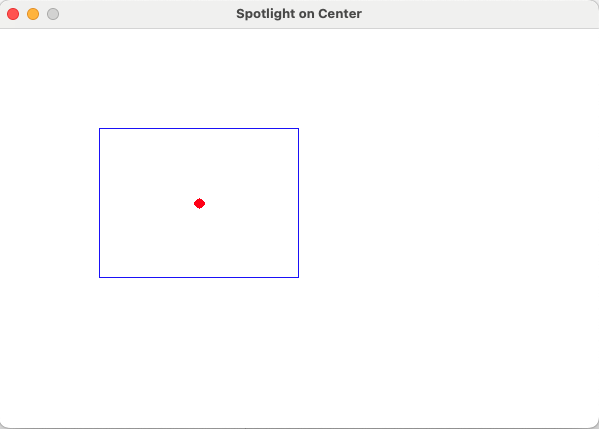
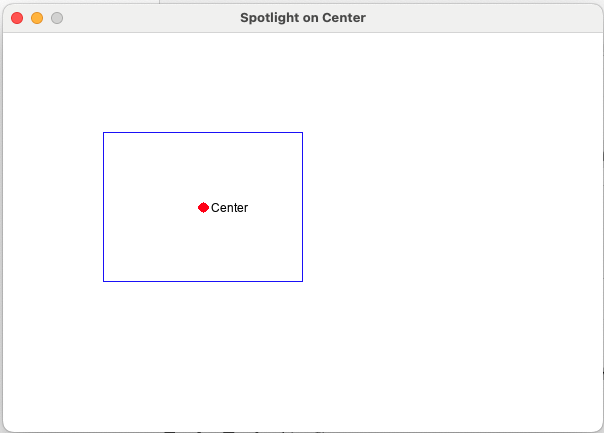
Update rectangle_center usage example: added comments and font fix

Changed region(s): [[0.0, 0.0, 1.0, 1.0], [0.1503, 0.303, 0.5109, 0.6667], [0.3306, 0.4545, 0.4207, 0.5152]]

diff --git a/public/usage-examples/geometry/rectangle_center-1-example.py b/public/usage-examples/geometry/rectangle_center-1-example.py
@@ -4,16 +4,23 @@ from splashkit import *
 example_message = "this is an example of snake_case"
 
 def main():
-    open_window("Spotlight on Center", 600, 400)
+    # Open a window to display the graphics
+    window = open_window("Spotlight on Center", 600, 400)
 
+    # Create a rectangle using top-left coordinates and dimensions
     example_rectangle = rectangle_from(100, 100, 200, 150)
+
+    # Compute the center point of the rectangle
     center_point = rectangle_center(example_rectangle)
+
+    # Load font from file (ensure "Arial.ttf" exists in the same folder)
+    font = load_font("default_font", "Arial.ttf")
 
     while not quit_requested():
         process_events()
         clear_screen(color_white())
 
-        # Draw rectangle with numeric arguments
+        # Draw the rectangle using individual properties
         draw_rectangle(
             color_blue(),
             example_rectangle.x,
@@ -22,14 +29,15 @@ def main():
             example_rectangle.height
         )
 
-        # Draw the center point
+        # Draw a red circle at the center of the rectangle
         fill_circle(color_red(), center_point.x, center_point.y, 5)
 
-        # Draw label near the center
-        draw_text("Center", color_black(), "Arial", 12, center_point.x + 8, center_point.y - 6)
+        # Label the center point using the loaded font
+        draw_text("Center", color_black(), font, 12, center_point.x + 8, center_point.y - 6)
 
         refresh_screen()
 
-    close_window("Spotlight on Center")
+    # Close the window when finished
+    close_window(window)
 
 main()

diff --git a/public/usage-examples/geometry/rectangle_center-1-example.cpp b/public/usage-examples/geometry/rectangle_center-1-example.cpp
@@ -5,9 +5,13 @@ string example_message = "this is an example of snake_case";
 
 int main()
 {
+    // Open a graphics window
     open_window("Spotlight on Center", 600, 400);
 
+    // Define a rectangle using top-left corner and size
     rectangle example_rectangle = rectangle_from(100, 100, 200, 150);
+
+    // Calculate the center point of the rectangle
     point_2d center_point = rectangle_center(example_rectangle);
 
     while (!quit_requested())
@@ -15,7 +19,7 @@ int main()
         process_events();
         clear_screen(COLOR_WHITE);
 
-        // Draw the rectangle
+        // Draw the rectangle in blue
         draw_rectangle(
             COLOR_BLUE,
             example_rectangle.x,
@@ -24,15 +28,16 @@ int main()
             example_rectangle.height
         );
 
-        // Draw the center point
+        // Draw a red circle at the center point
         fill_circle(COLOR_RED, center_point, 5);
 
-        // Draw label near the center point
+        // Label the center point
         draw_text("Center", COLOR_BLACK, "Arial", 12, center_point.x + 8, center_point.y - 6);
 
         refresh_screen();
     }
 
+    // Close the window
     close_window("Spotlight on Center");
 
     return 0;

diff --git a/public/usage-examples/geometry/rectangle_center-1-example-oop.cs b/public/usage-examples/geometry/rectangle_center-1-example-oop.cs
@@ -9,9 +9,13 @@ namespace RectangleCenterExample
             // Declare a variable with camelCase
             string exampleMessage = "this is an example of camelCase";
 
+            // Open a window for drawing
             SplashKit.OpenWindow("Spotlight on Center", 600, 400);
 
+            // Create a rectangle
             Rectangle exampleRectangle = SplashKit.RectangleFrom(100, 100, 200, 150);
+
+            // Get the center of the rectangle
             Point2D centerPoint = SplashKit.RectangleCenter(exampleRectangle);
 
             while (!SplashKit.QuitRequested())
@@ -28,10 +32,10 @@ namespace RectangleCenterExample
                     exampleRectangle.Height
                 );
 
-                // Draw the center point
+                // Draw a circle at the center
                 SplashKit.FillCircle(Color.Red, centerPoint, 5);
 
-                // Draw label near the center
+                // Label the center
                 SplashKit.DrawText("Center", Color.Black, "Arial", 12, centerPoint.X + 8, centerPoint.Y - 6);
 
                 SplashKit.RefreshScreen();

diff --git a/public/usage-examples/geometry/rectangle_center-1-example-top-level.cs b/public/usage-examples/geometry/rectangle_center-1-example-top-level.cs
@@ -3,9 +3,13 @@ using SplashKitSDK;
 // Declare a variable with camelCase
 string exampleMessage = "this is an example of camelCase";
 
+// Open a drawing window
 SplashKit.OpenWindow("Spotlight on Center", 600, 400);
 
+// Define a rectangle
 Rectangle exampleRectangle = SplashKit.RectangleFrom(100, 100, 200, 150);
+
+// Calculate the rectangle's center
 Point2D centerPoint = SplashKit.RectangleCenter(exampleRectangle);
 
 while (!SplashKit.QuitRequested())
@@ -22,10 +26,10 @@ while (!SplashKit.QuitRequested())
         exampleRectangle.Height
     );
 
-    // Draw the center point
+    // Mark the center with a red circle
     SplashKit.FillCircle(Color.Red, centerPoint, 5);
 
-    // Draw label near the center
+    // Add label text
     SplashKit.DrawText("Center", Color.Black, "Arial", 12, centerPoint.X + 8, centerPoint.Y - 6);
 
     SplashKit.RefreshScreen();
